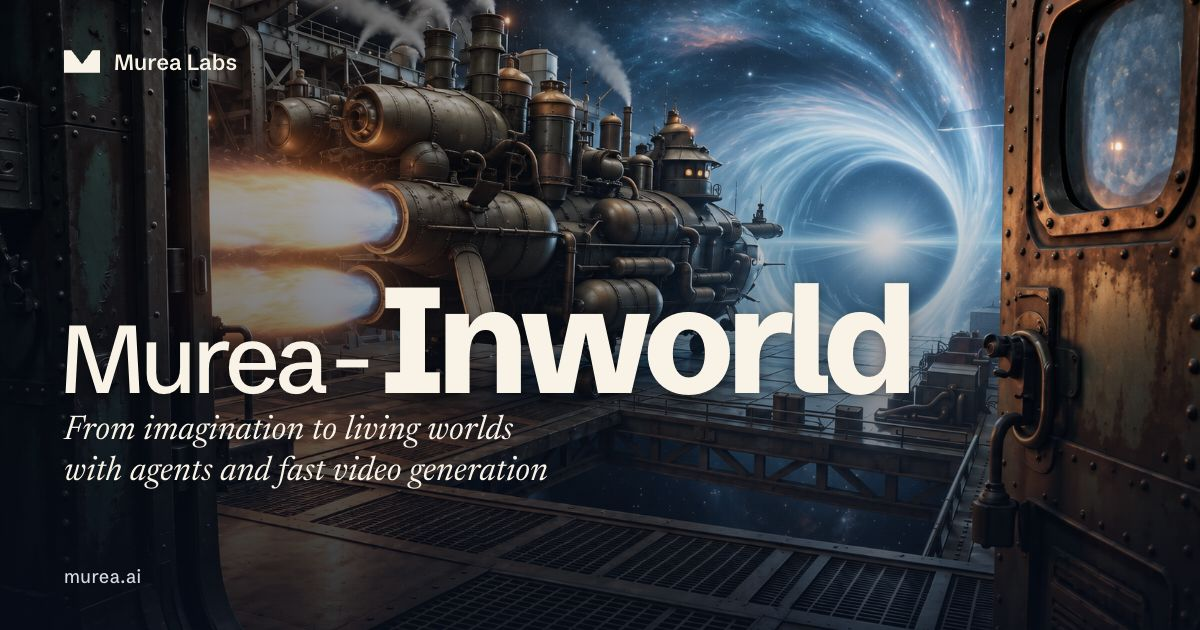
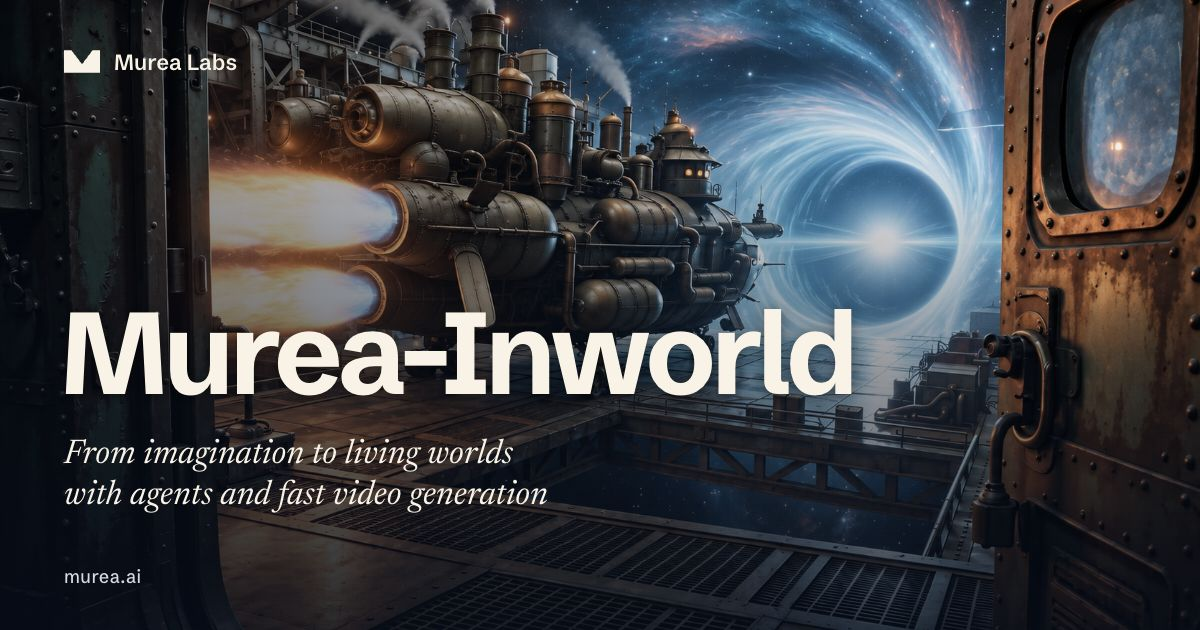
Unify Murea-Inworld title typography and responsive scale

Changed region(s): [[0.0617, 0.4222, 0.7708, 0.6333], [0.0308, 0.6635, 0.4625, 0.8143]]

diff --git a/index.html b/index.html
@@ -13,14 +13,14 @@
 <meta property="og:site_name" content="Murea Labs">
 <meta property="og:title" content="Murea-Inworld: From Imagination to Living Worlds with Agents and Fast Video Generation">
 <meta property="og:description" content="An interactive audiovisual world model: a world agent with explicit memory, and a fast generator for synchronized video and audio.">
-<meta property="og:image" content="https://murea-labs.github.io/InWorld/assets/img/og-murea-inworld.jpg">
+<meta property="og:image" content="https://murea-labs.github.io/InWorld/assets/img/og-murea-inworld.jpg?v=type-unified-20261015">
 <meta property="og:image:alt" content="Murea-Inworld — From imagination to living worlds with agents and fast video generation">
 <meta property="og:image:width" content="1200">
 <meta property="og:image:height" content="630">
 <meta name="twitter:card" content="summary_large_image">
 <meta name="twitter:title" content="Murea-Inworld | Murea Labs">
 <meta name="twitter:description" content="An interactive audiovisual world model: a world agent with explicit memory, and a fast generator for synchronized video and audio.">
-<meta name="twitter:image" content="https://murea-labs.github.io/InWorld/assets/img/og-murea-inworld.jpg">
+<meta name="twitter:image" content="https://murea-labs.github.io/InWorld/assets/img/og-murea-inworld.jpg?v=type-unified-20261015">
 <meta name="twitter:image:alt" content="Murea-Inworld — From imagination to living worlds with agents and fast video generation">
 
 <link rel="icon" href="favicon.ico" sizes="48x48">
@@ -32,7 +32,7 @@
 <link rel="preload" as="image" href="assets/img/hero-rebuilt-v1.png">
 <link rel="stylesheet" href="assets/css/fonts.css">
 <link rel="stylesheet" href="assets/vendor/katex/katex.min.css">
-<link rel="stylesheet" href="assets/css/site.css?v=murea-inworld-20261015">
+<link rel="stylesheet" href="assets/css/site.css?v=type-unified-20261015">
 
 <script type="application/ld+json">
 {
@@ -42,7 +42,7 @@
   "author": { "@type": "Organization", "name": "Murea Labs" },
   "publisher": { "@type": "Organization", "name": "Murea Labs", "logo": { "@type": "ImageObject", "url": "https://murea-labs.github.io/InWorld/assets/img/icon-512.png" } },
   "datePublished": "2026-10",
-  "image": "https://murea-labs.github.io/InWorld/assets/img/og-murea-inworld.jpg",
+  "image": "https://murea-labs.github.io/InWorld/assets/img/og-murea-inworld.jpg?v=type-unified-20261015",
   "url": "https://murea-labs.github.io/InWorld/"
 }
 </script>
@@ -83,7 +83,7 @@
 <section class="hero" id="top" aria-labelledby="title">
   <img class="hero__img" src="assets/img/hero-rebuilt-v1.png" width="1672" height="941" alt="" fetchpriority="high">
   <div class="wrap hero__content">
-    <h1 class="hero__title" id="title" aria-label="Murea-Inworld"><span class="hero__brand">Murea<span class="hero__join">-</span></span><span class="hero__name">Inworld</span></h1>
+    <h1 class="hero__title" id="title">Murea-Inworld</h1>
     <p class="hero__subtitle">From imagination to living worlds with agents and fast video generation</p>
     <p class="hero__byline"><strong>Murea Labs</strong>&ensp;Technical report, 2026</p>
     <div class="hero__actions">

diff --git a/assets/css/site.css b/assets/css/site.css
@@ -179,28 +179,23 @@ h4 { font-size: var(--fs-base); line-height: 1.3; }
   }
 }
 .hero__title {
-  display: flex;
-  align-items: baseline;
   font-family: var(--sans);
-  font-weight: 760;
-  font-size: clamp(4.75rem, 13vw, 10.5rem);
-  line-height: .92;
-  letter-spacing: -.055em;
+  font-weight: 700;
+  font-size: clamp(3.75rem, 9.2vw, 8rem);
+  line-height: 1.04;
+  letter-spacing: -.045em;
+  white-space: nowrap;
   color: var(--night-ink);
-  margin-left: -.025em;
-  margin-bottom: .1em;
+  margin-left: -.035em;
+  margin-bottom: .08em;
 }
-.hero__brand { flex: none; font-size: .64em; font-weight: 500; letter-spacing: -.05em; }
-.hero__join { display: inline-block; margin-inline: .045em .09em; font-weight: 450; }
-.hero__name { font-weight: 760; letter-spacing: -.06em; }
 .hero__subtitle {
   font-family: var(--serif); font-style: italic; font-weight: 400;
   font-size: clamp(1.4rem, 2.35vw, 1.9rem); line-height: 1.25;
   max-width: 22em; margin: 0; color: var(--night-ink); text-wrap: balance;
 }
 @media (max-width: 40rem) {
-  .hero__title { flex-direction: column; align-items: flex-start; gap: .08em; font-size: clamp(4.5rem, 17vw, 6.5rem); }
-  .hero__brand { font-size: .58em; }
+  .hero__title { font-size: clamp(2.25rem, 11.5vw, 4.5rem); }
   .hero__subtitle { max-width: 24em; }
 }
 .hero__byline { font-family: var(--sans); font-size: var(--fs-sm); color: var(--night-muted); margin: 0; }
